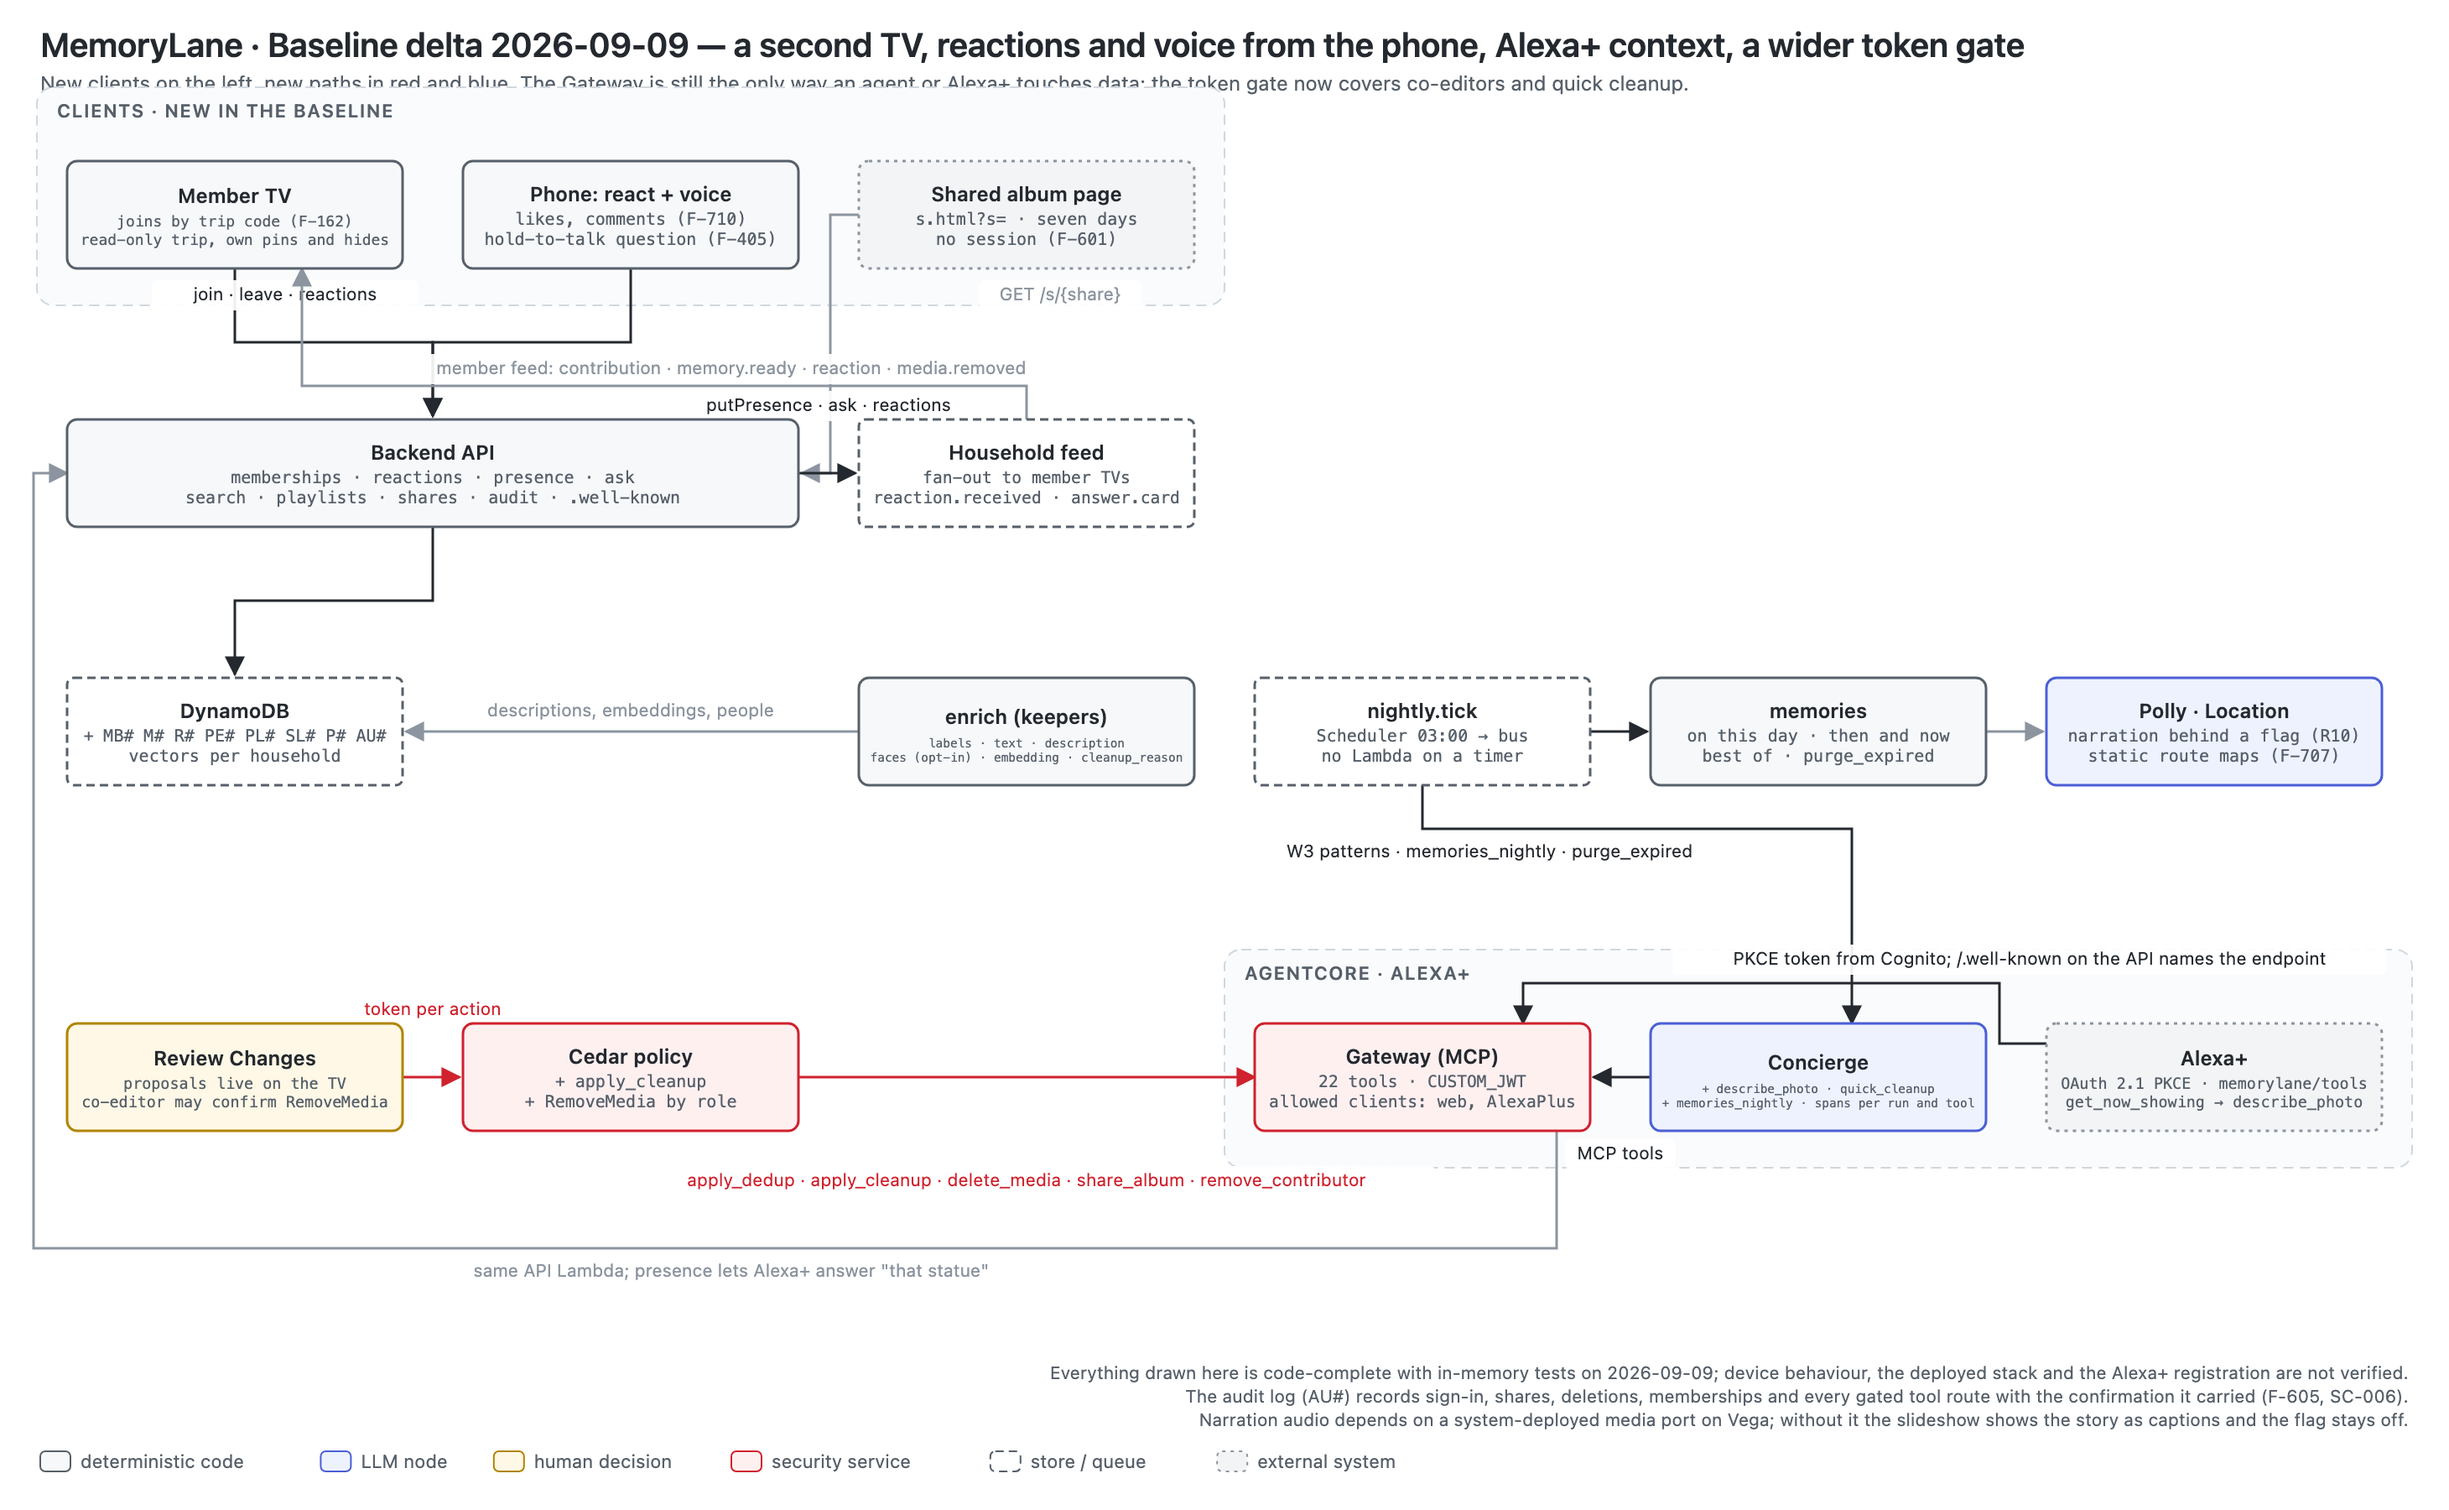
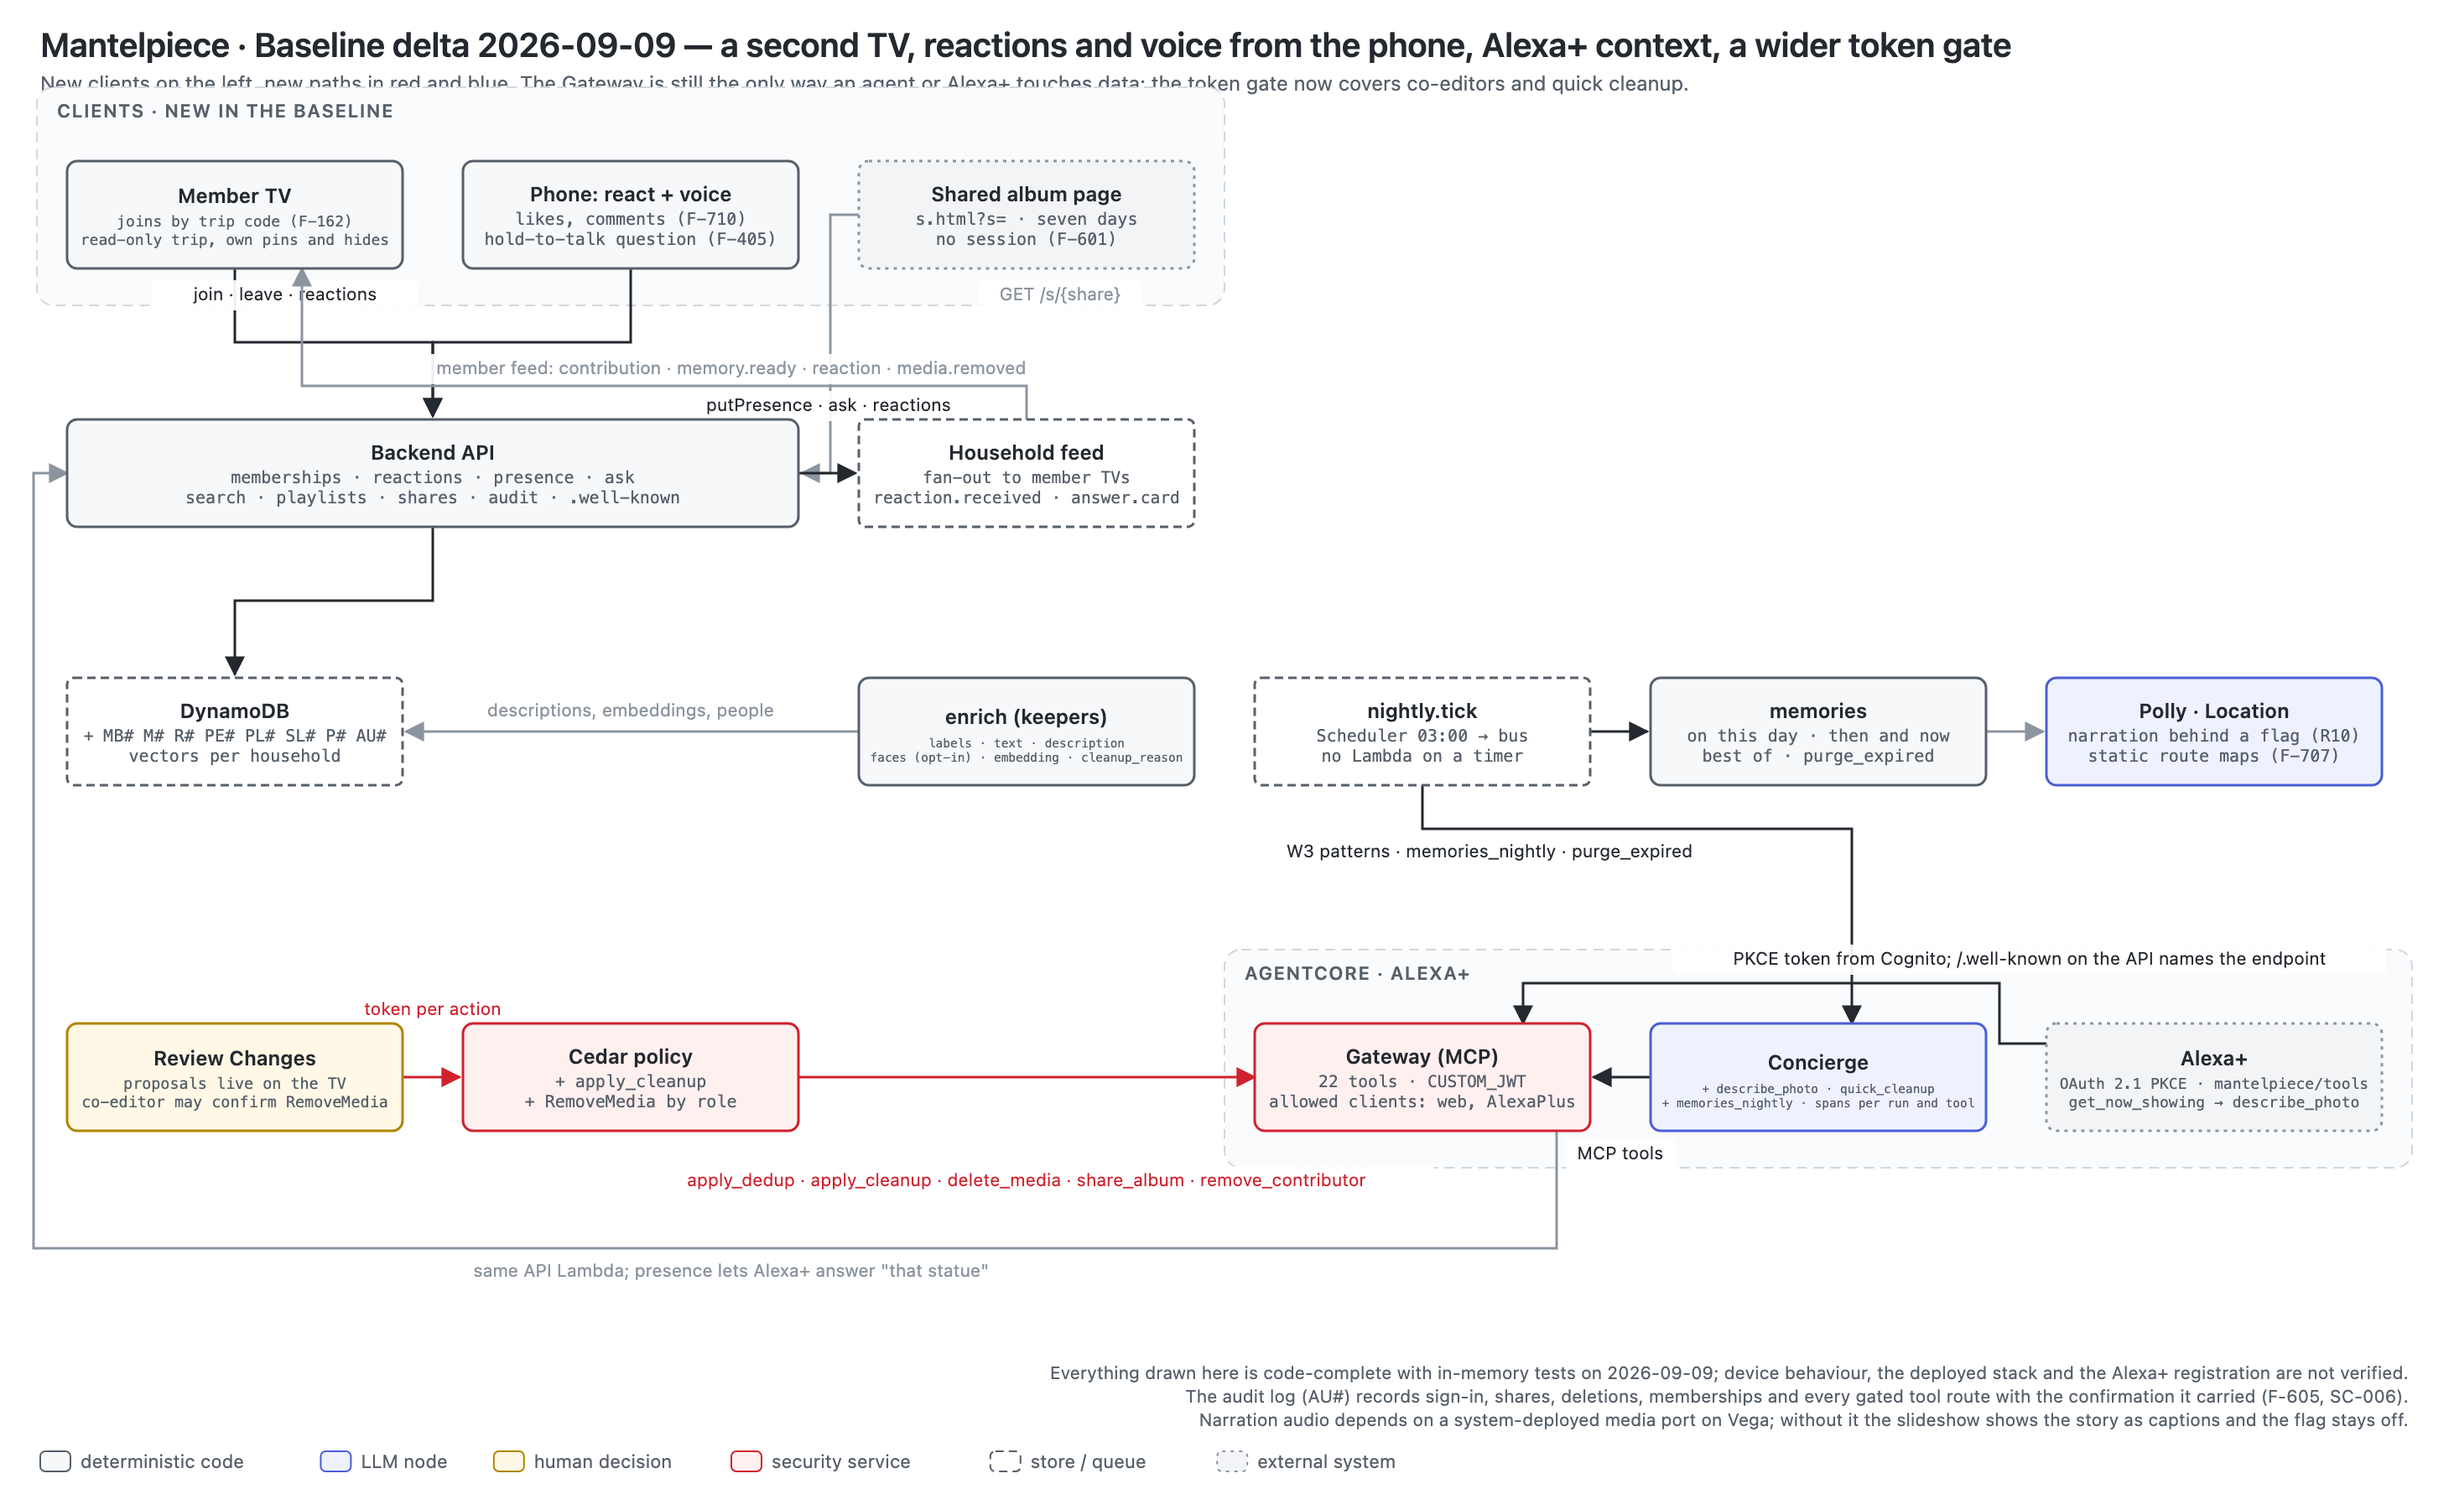
docs: drop device screenshots, rebuild stale diagram renders
The screenshots in docs/screens were debug captures (LogBox banners, expired
sign-in codes) and three showed real people's photos. docs/screens is now
gitignored so walkthrough output stays local; citations to the files are gone.
Diagrams 01 and 08 had PNGs still titled with the old name.

Changed region(s): [[0.0623, 0.0, 0.8103, 0.0622], [0.8414, 0.7156, 0.9661, 0.7467]]

diff --git a/specs/decisions-2026-09-09.md b/specs/decisions-2026-09-09.md
@@ -715,8 +715,7 @@ compile-checked only.
   "Trip, October 25 to 26, 2025" from six photos on two consecutive days (the seven
   single-day photos stay unorganised: `min_trip_days` is 2). The Virtual Device build with
   the API base from `scripts/tv-config.sh` showed the code and QR, landed on Memories home
-  with the trip poster and the "6 photos organised" ticker after approval
-  (`docs/screens/vvd-*-deployed-2026-09-14.png`).
+  with the trip poster and the "6 photos organised" ticker after approval.
 - Two surprises. (1) Bedrock on a fresh account answered "Your account is currently being
   verified" for about an hour; the failed Organize run was redriven
   (`aws stepfunctions redrive-execution`) once the hold lifted and succeeded. (2) The TV
@@ -725,7 +724,7 @@ compile-checked only.
   The shell now uses the system-deployed port
   `@amazon-devices/react-native-async-storage__async-storage` 2.1.9000000001 (the
   `-rn-83` prerelease fails the SDK's kepler-compatibility check); verified: terminate
-  and relaunch comes back signed in (`docs/screens/vvd-relaunch-signed-in-2026-09-14.png`).
+  and relaunch comes back signed in.
 - Open, seen on the Virtual Device and not chased: after sign-in the TV moved from Home to
   the slideshow on its own, and after relaunch from Home to Trip view, with no
   `play.requested` on the feed (possibly key events injected by the CLI launch, possibly a
@@ -754,8 +753,7 @@ compile-checked only.
   Phone side is the IVS web broadcast SDK (WebRTC ingest, lazy 649 kB chunk on
   `live.html`). TV side is hls.js with Amazon's Vega patches on the system W3C media port
   (`scripts/vega-hls.sh` builds it into the gitignored `apps/tv-vega/vendor/`).
-- Verified on the deployed stack and the Virtual Device (screens
-  `docs/screens/vvd-arrived*-2026-09-21.png`, `vvd-live-*-2026-09-21.png`): six photos
+- Verified on the deployed stack and the Virtual Device: six photos
   took over the TV as they landed, each `photos.arrived` 0.9 to 3.0 s after its upload
   completed (server event time against this Mac's clock; the TV's own poll adds up to one
   interval, not measured). Love it wrote the inbox note and a real Chrome profile received
@@ -795,8 +793,7 @@ compile-checked only.
   phone switched away from says "<TV> switched to <name>" from its `GET /live` check.
   Requests lapse after 60 s; a phone can withdraw its own. Verified on the Virtual Device
   with Chrome as Maya and a scripted second phone as Sam: Watch, a switch to Sam (his
-  ffmpeg clock then played), and Not now leaving Sam on screen
-  (`docs/screens/vvd-live-request-2026-09-21.png`). After the prompt closes, focus returns
+  ffmpeg clock then played), and Not now leaving Sam on screen. After the prompt closes, focus returns
   on the first arrow press, not by itself.
 
 ## 33. The app is called Mantelpiece (2026-09-22)

diff --git a/specs/001-mantelpiece-baseline/tasks.md b/specs/001-mantelpiece-baseline/tasks.md
@@ -106,7 +106,7 @@ policy that every story builds on.
 - [X] T032 [P] [US1] Make the second approval of an already-approved code return 409 "already signed in" in `services/lambdas/api/src/handlers/device.rs`; test in `services/lambdas/api/tests/api.rs`
 - [X] T033 [P] [US1] After approval, redirect the phone from `apps/web/src/pages/link.ts` to the upload page with the household session (no second sign-in); test in `apps/web/test/auth.test.ts`
 - [X] T034 [US1] Record TV name on `POST /device/poll` approval and expose it on `GET /me` in `services/lambdas/api/src/handlers/session.rs`
-- [X] T035 [US1] (2026-09-14 on the deployed stack: code and QR shown, approval lands on Home, session survives terminate and relaunch after the async-storage port fix, decision 31) (partial 2026-09-09, SDK 0.24.9914: .vpkg builds, installs, launches and renders Onboarding on the Virtual Device, `docs/screens/vvd-onboarding-2026-09-09.png`; sign-in needs a deployed API and an API base in the shell) Verify on the Vega Virtual Device via `make tv-vvd-install`: code and QR shown, approval lands on Home under 5 s, session survives restart; record results in `specs/decisions-2026-09-09.md` section 6 (research R1, R2 verified: device)
+- [X] T035 [US1] (2026-09-14 on the deployed stack: code and QR shown, approval lands on Home, session survives terminate and relaunch after the async-storage port fix, decision 31) (partial 2026-09-09, SDK 0.24.9914: .vpkg builds, installs, launches and renders Onboarding on the Virtual Device; sign-in needs a deployed API and an API base in the shell) Verify on the Vega Virtual Device via `make tv-vvd-install`: code and QR shown, approval lands on Home under 5 s, session survives restart; record results in `specs/decisions-2026-09-09.md` section 6 (research R1, R2 verified: device)
 
 **Checkpoint**: US1 demonstrable on the Virtual Device (code complete 2026-09-09; device run pending T035)
 

diff --git a/README.md b/README.md
@@ -112,14 +112,14 @@ make tv-vvd-install        # debug build and install on the Virtual Device
 make tv-vvd-logs           # log stream
 make tv-vvd-shot           # screenshot through the emulator console (scripts/vvd-screenshot.sh)
 make tv-vvd-stop           # stop the Virtual Device
-make tv-walkthrough        # scripts/tv-walkthrough.sh: key presses and screenshots into docs/screens
+make tv-walkthrough        # scripts/tv-walkthrough.sh: key presses and screenshots into docs/screens (gitignored)
 ```
 
 The `.vpkg` step and everything on the Virtual Device need the
 [Vega SDK](https://developer.amazon.com/docs/vega/0.24/install-vega-sdk.html) 0.24 with
 the `vega` CLI on `PATH` (`source ~/vega/env`). Verified on the Virtual Device with SDK
 0.24.9914 on 2026-09-09: the debug `.vpkg` builds for aarch64, armv7 and x86_64, installs,
-launches in about 800 ms, renders Onboarding with focus (`docs/screens/`), and Fast Refresh
+launches in about 800 ms, renders Onboarding with focus, and Fast Refresh
 pulls the bundle from Metro over the forwarded port. Not yet verified: a physical Fire TV,
 and every screen past Onboarding, which needs a deployed API (the shell has no API base
 yet, so sign-in shows "Network request failed").

diff --git a/specs/video-call-feasibility-2026-09-15.md b/specs/video-call-feasibility-2026-09-15.md
@@ -128,8 +128,7 @@ precision (`apps/tv-vega/spike/`, feed scripts kept out of the repo). The Vega a
 played the channel's standard HLS playback URL through hls.js 1.5.11 with Amazon's Vega
 patches on `@amazon-devices/react-native-w3cmedia` 2.3.4-rn-83 (MSE mode) and overlaid the
 device's own UTC clock; the Virtual Device clock matched the host to the second. Lag is the
-difference between the two clocks in one screenshot. Screenshots:
-`docs/screens/live-spike-ivs-3s.png`, `docs/screens/live-spike-ivs-stock.png`.
+difference between the two clocks in one screenshot.
 
 | hls.js live-sync setting | Glass-to-glass lag | hls.js's own `latency` | Notes |
 |---|---|---|---|
